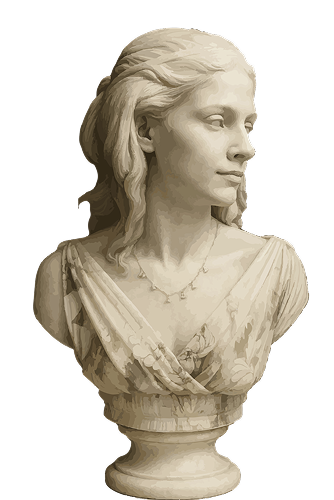
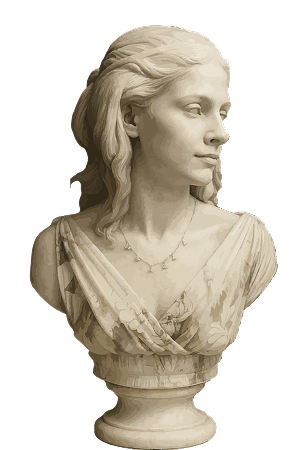
size changes

diff --git a/styles/style.css b/styles/style.css
@@ -214,10 +214,12 @@ html {
         border-color:#F1EBDC;
         border-radius: 16px;
         padding: 0.5vw 2vw;
+        width: 11.87vw;
+        height: 3.33vw;
     }
 
     #about{
-        height:201vw;
+        height:182.56vw;
     }
 
     .curtain-wrapper {
@@ -238,7 +240,7 @@ html {
 
     .right-curtain {
         position: absolute;
-        top: -3.8vw;
+        top: -4.1vw;
         right: 0;
         width: 50.07vw;
         height: 85vw;
@@ -247,9 +249,10 @@ html {
     
     .hand{
         position: relative;
-        top: 58.5vw;
+        top: 54.5vw;
         width: 36.54vw;
         height: 33.76vw;
+        left: 1vw;
     }
 
     .center-content {
@@ -263,15 +266,19 @@ html {
     }
 
     .profile-pic {
-        width: 23.2vw;
-        height: 34.72vw;
+        width: 20.83vw;
+        height: 31.25vw;
         object-fit: cover;
-        margin-bottom: 5vw;
+        margin-bottom: 3vw;
+    }
+
+    .the-face{
+        margin-top: -1.5vw;
     }
 
     .learned{
         width: 36.32vw;
-        margin-top: -1vw;
+        margin-top: -1.5vw;
     }
 
     .skills-text{
@@ -287,7 +294,7 @@ html {
         left:auto;
         right:auto;
         position: relative;
-        margin-top: 5vw;
+        margin-top: 2vw;
     }
 
     .skills-card{
@@ -334,9 +341,14 @@ html {
         display: flex;
         flex-direction: column;
         align-items: center;
-        margin-top: 28vw; 
+        margin-top: 20vw; 
         position: relative;
         text-align: center;
+        gap: 0vw;
+    }
+
+    .contact-texts p {
+        margin: 0; 
     }
 
     .contact-form{
@@ -346,6 +358,7 @@ html {
         position: relative;
         text-align: center;
         gap: 2.5vw;
+        margin-top: 2vw;
     }
 
     .contact-form-name-email{

diff --git a/index.html b/index.html
@@ -92,7 +92,7 @@
                 </picture>
 
                 <p class="para browndrapes">hey, that’s me! </p>
-                <p class="heading2 browndrapes">The face behind it all.</p>
+                <p class="heading2 browndrapes the-face">The face behind it all.</p>
                 <p class="para browndrapes learned">I’ve learned a few things over these past years working in such amazing projects, check it out.</p>
                 <p class="heading1 browndrapes skills-text">Skills</p>
                 <p class="heading3 browndrapes">Technical and Programs</p>
@@ -191,10 +191,10 @@
                 </form>
                 
                 <div class="contact-logos">
-                    <a href="https://www.linkedin.com/in/tatiane-araujo-brito-/">
+                    <a href="https://www.linkedin.com/in/tatiane-araujo-brito-/"target="_blank" rel="noopener noreferrer" >
                         <img src="images/linkedin.png">
                     </a>
-                    <a href="mailto:ane.a.brito@gmail.com">
+                    <a href="mailto:ane.a.brito@gmail.com"target="_blank" rel="noopener noreferrer" >
                         <img src="images/mail.png">
                     </a>
                     <a href="docs/Tatiane Brito.pdf" download>
